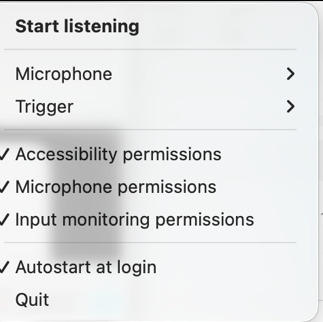
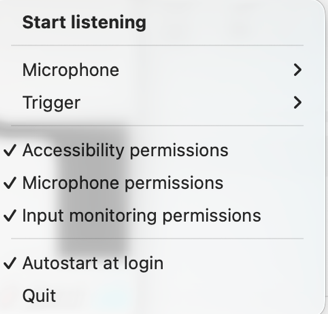
docs: trim the README and the install walkthrough
README: drop the platform caveats that were doing no work - a bullet saying
macOS is 'primary, best-tested' next to two lesser platforms tells a Mac user
nothing they act on - plus the Python/self-contained note (irrelevant now the
DMG is the front door), the WSL and Wayland asides, and the redundant caption
above the demo video. Windows reads 'beta', Linux drops 'experimental' from the
bullet - the Linux section still says it, loudly, where it matters.

Release page: one action per step. 'Open it, then click past the warning' was two
separate things behind one heading, so opening the app and reaching Open Anyway
in System Settings are now steps 3 and 4. The menu bar appearing is its own step
before granting anything, because that is where a user looks next and previously
it was buried in a sentence.

Cut every line that narrated what the picture already showed: 'click all three
in turn', 'a tick appears', 'double-tap your trigger and talk'. The three
permission labels are now just 'Allow Accessibility' / 'Allow Microphone' /
'Allow Input monitoring' - the reason each one exists is not what someone
mid-install needs. Changelog and checksum folds removed; both live elsewhere.

Re-cropped 4-menu.png from a shot with no submenu open and tight to the menu
bounds, so the ticks are not clipped and no window edge bleeds in.

diff --git a/README.md b/README.md
@@ -13,17 +13,13 @@ application you're in. A local, open alternative to Wispr Flow and Superwhisper.
 
 ## Demo
 
-A full walkthrough, with sound:
-
 https://github.com/user-attachments/assets/20cf0b37-7b8b-4586-abd8-e8bac6663766
 
 ## What you need
 
-- **macOS** (Apple Silicon, M-series) - primary, best-tested
-- **Windows 10/11** - works, still beta (built and tested by a contributor) ([setup](#on-windows))
-- **Linux** (X11) - experimental, looking for a contributor ([setup](#on-linux))
-- Nothing else on macOS - the app is self-contained. From source, or on Windows/Linux, you need
-  Python 3.12-3.14 (3.12 or 3.13 on Windows); `./setup` fetches its own copy if you have none.
+- **macOS** (Apple Silicon, M-series)
+- **Windows 10/11** - beta (built and tested by a contributor) ([setup](#on-windows))
+- **Linux** (X11) - looking for a contributor ([setup](#on-linux))
 
 ## Install (macOS)
 
@@ -58,9 +54,6 @@ cd dum-dictation
 - Only permission: **microphone** (Settings => Privacy & security => Microphone).
 - Tray + logon: `.\dum.ps1 --tray`, `.\dum.ps1 --install-autostart`.
 
-> WSL? The tool needs the real keyboard, mic and screen (Windows owns those), so run the Windows
-> version above.
-
 ## On Linux
 
 > **Experimental!** Looking for a Linux contributor. Reach out on
@@ -75,8 +68,6 @@ cd dum-dictation
 ./dum --tray
 ./dum --install-autostart            # systemd --user service
 ```
-
-Wayland: run under XWayland, or install `ydotool` + `wl-clipboard`.
 
 ## Privacy
 
